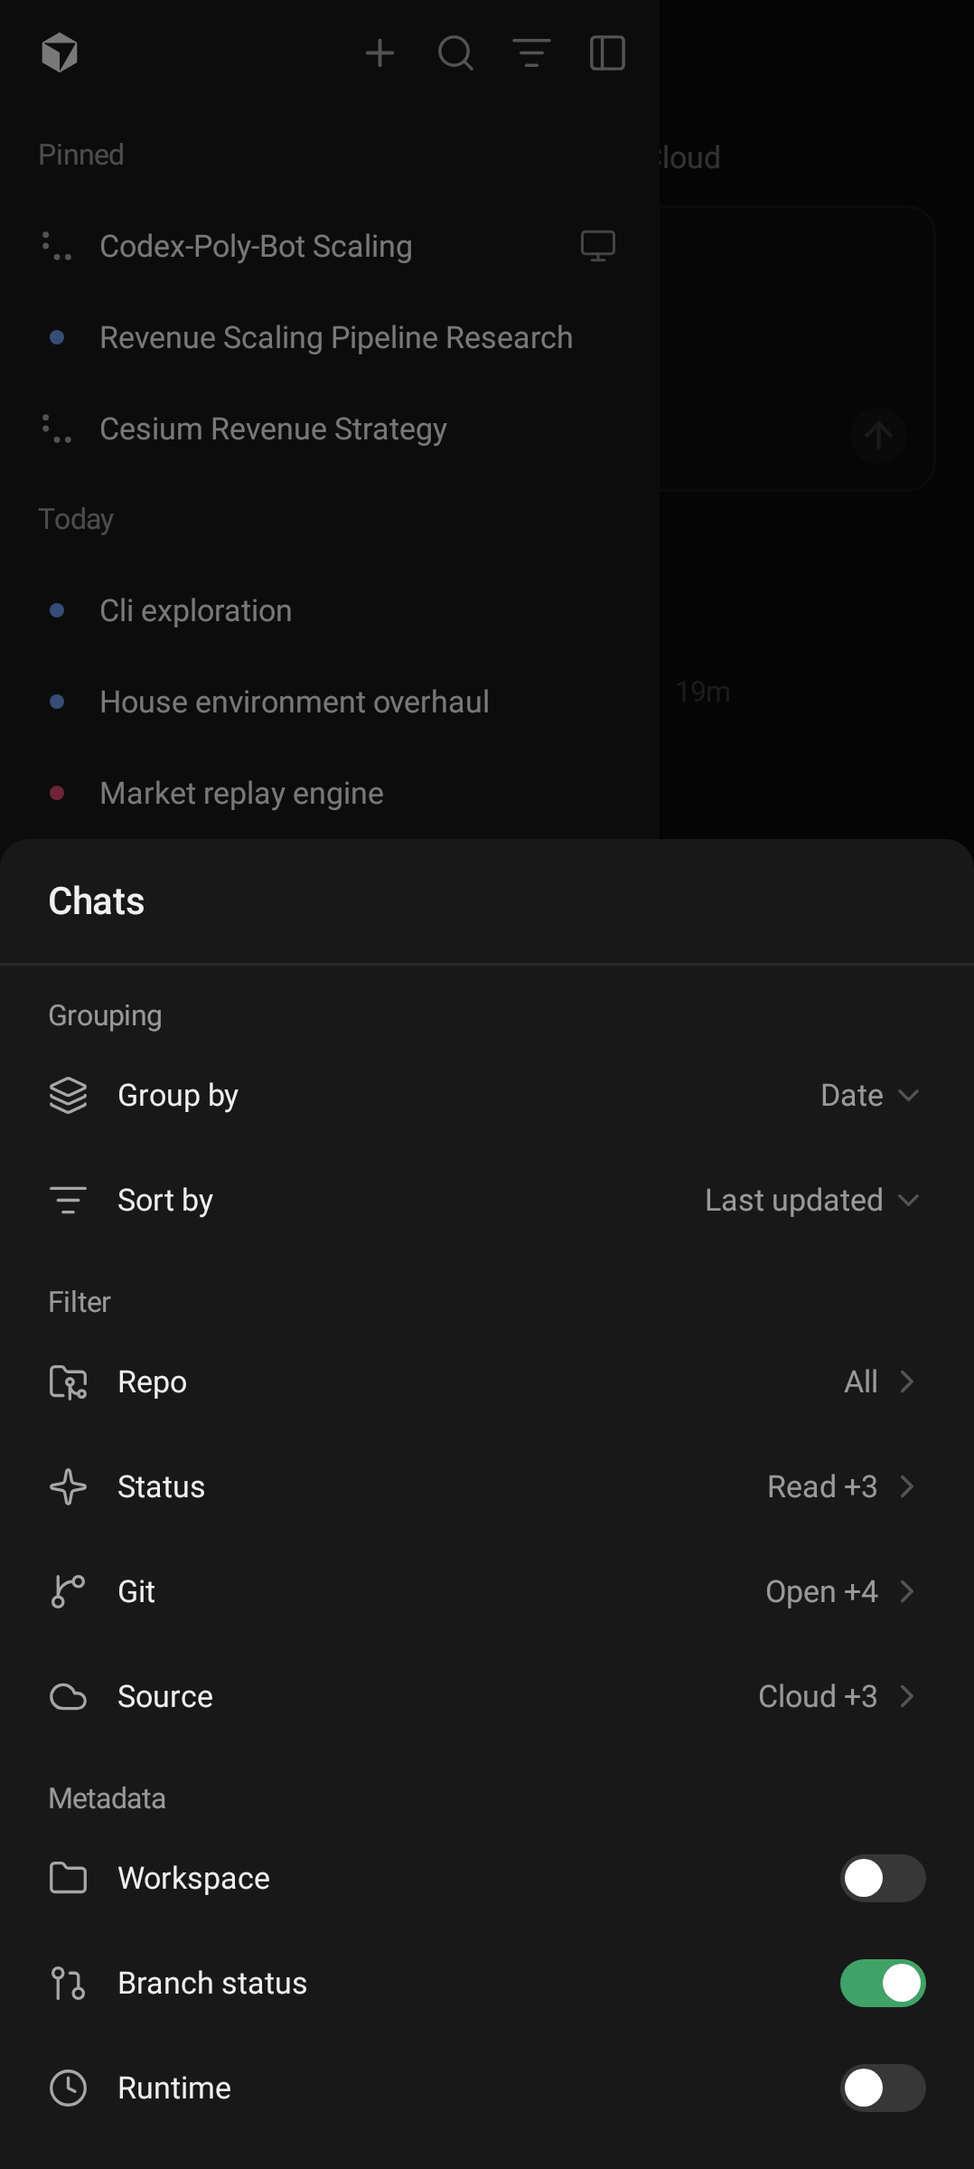
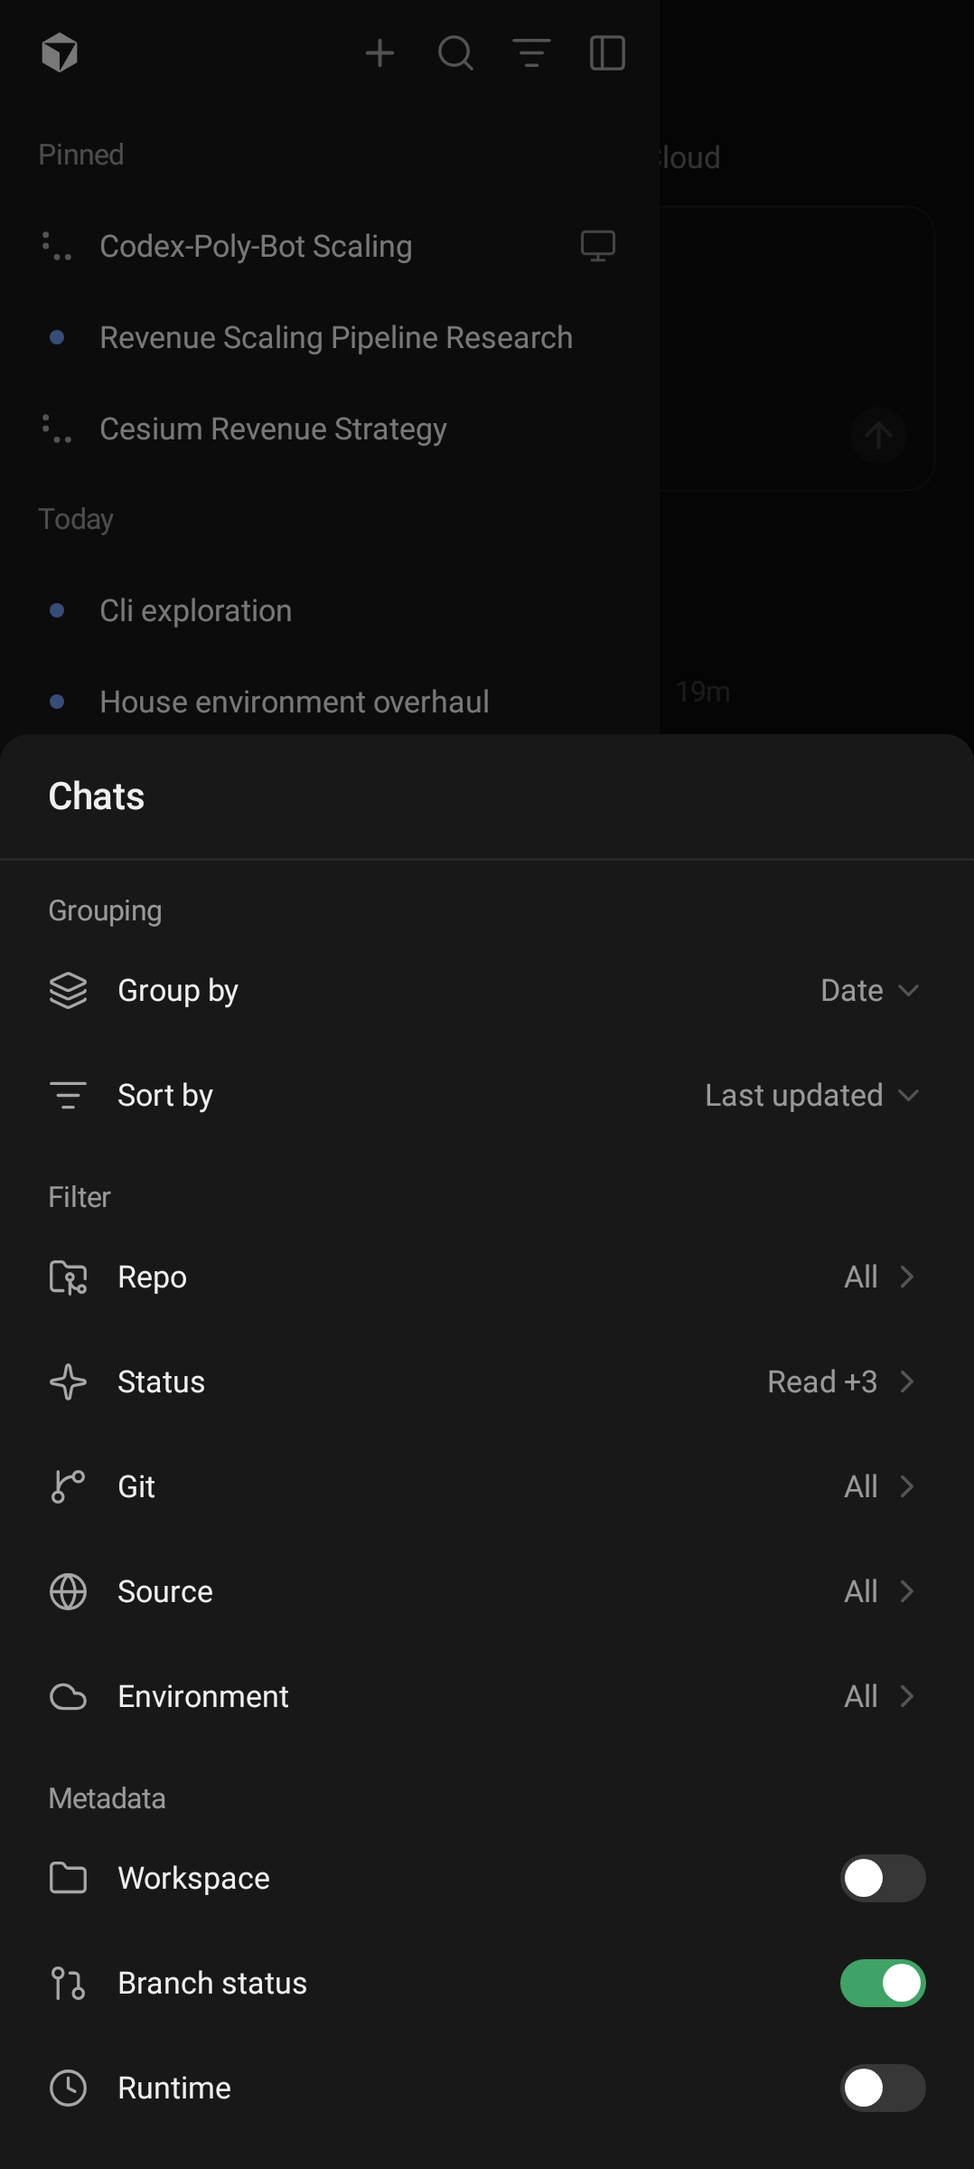
Screenshots and README for the Source and Environment filters

diff --git a/README.md b/README.md
@@ -9,14 +9,14 @@ Not affiliated with Anysphere, Inc.
 - Sign in with your Cursor account, the way Cursor's own CLI and SDK do: "Continue with Cursor" opens cursor.com in a Custom Tab with a PKCE challenge, the app polls `api2.cursor.sh/auth/poll` for the approval, then spends the released session once on `DashboardService/CreateUserApiKey` to mint a 90-day user API key named after the device (it shows up on cursor.com/dashboard/api like any other key, and can be revoked there). The app comes back on top of the browser as soon as the approval lands. Or paste a user / service-account API key under "Use an API key instead", for teams that restrict user keys. Either way the key is validated against `GET /v1/me`, stored encrypted with the Android Keystore and excluded from backups; the session tokens are never kept. Settings shows how you signed in and when a minted key lapses; a lapsed one signs out to a one-tap re-login. The sidebar footer and Settings show the account's actual profile picture (`GET /v1/me` has no field for it, so it comes from the account service's `DashboardService/GetMe` behind the key check, kept with the cached account and falling back to the initials).
 - New Chat pane as home: repository / branch / environment selectors, the composer (the "+" menu, model picker with plan mode and auto-PR, send), then the recent chats with preview cards. The branch picker offers the repository's default branch and every branch its agents have started from or pushed — the API has no branch listing, so that is what the app can know — and takes any other branch by name. The model picker lists each model from `GET /v1/models` once; a model's parameters — effort, speed, context window — unfold under it as pickers (a toggle for an on/off parameter, a row of choices otherwise), and every choice resolves to a variant the API lists, so the request never carries a `model.params` combination the model does not accept. Sending opens the chat at once: the prompt (with its images) is on screen and the chat reads "Starting…" before `POST /v1/agents` has answered, with the new row already in the list; the reply swaps in the run and starts its stream. The composer is empty from that moment: the launch belongs to the app, not to the pane that sent it, so going back — or starting another chat — while the server has yet to answer meets a New Chat pane that is ready, never one still occupied by the previous send. The prompt is kept on the device until the legacy transcript has caught up with it, so it never blinks out while `/v0/agents/{id}/conversation` lags behind the run list. A launch that fails, or is stopped from the chat, hands its draft back to the composer (with the reason, for a failure) — as soon as the composer is free, if another draft is being written by then; the app mints the agent id itself (`agentId`), so re-sending an unchanged draft adopts the agent a lost reply may already have created (`409 agent_id_conflict`) instead of launching a duplicate.
 - The composer's "+" menu, as on cursor.com/agents: Multitask (toggles `/multitask` at the front of the prompt), Files (image attachments via the system photo picker), Skills (the built-in cloud skills — `/autopilot`, `/review`, `/review-bugbot`, `/review-security`, `/split-to-prs`, `/subscribe`, `/loop`, … — plus any project or synced skill typed by name, inserted as `/name`), and MCP Servers (HTTP or stdio servers defined in the app, stored encrypted, toggled per server and sent inline as `mcpServers[]` with every prompt while enabled). The same menu sits on the follow-up composer.
-- Sidebar (edge-swipe drawer on phones, permanent 280dp column on tablets and foldables): one header row with the "+" new-chat button, search, the filter menu (group by, sort, Repo / Status / Git / Source filters — the Git filter shows or hides chats by where their pull request stands, open, draft, merged or closed, or that have none — and metadata toggles) and the sidebar toggle, then the Pinned and date groups; pull-to-refresh, long-press actions (pin, open on cursor.com, copy link, archive, delete).
+- Sidebar (edge-swipe drawer on phones, permanent 280dp column on tablets and foldables): one header row with the "+" new-chat button, search, the filter menu (group by, sort, Repo / Status / Git / Source / Environment filters — the Git filter shows or hides chats by where their pull request stands, open, draft, merged or closed, or that have none; the Source filter is the one cursor.com/agents and the desktop Agents window have, where each chat was started: Cursor desktop, Cursor web, the mobile app, the CLI, Slack, Microsoft Teams, Linear, Jira, source control (GitHub / GitLab / Bitbucket / Origin comments), the API, the SDK, Automations, Bugbot, Grok Bot, plus "This device" for the chats launched from this app and "Other" for Cursor's internals; the Environment filter is where each chat runs, Cursor's cloud, a team pool or one of your machines — and metadata toggles) and the sidebar toggle, then the Pinned and date groups; pull-to-refresh, long-press actions (pin, open on cursor.com, copy link, archive, delete).
 - Pinned chats are the account's, shared with the desktop Agents window and the iOS app: the pin list is read from `aiserver.v1.BackgroundComposerService/ListBackgroundComposers` (`includePinnedState` → `pinnedBcIds`) after every list refresh and changed with `Pin` / `UnpinBackgroundComposers`, over the same Connect-JSON channel the sign-in uses. Those RPCs take the account session rather than the API key, so the stored key is exchanged for one on demand (`POST api2.cursor.sh/auth/exchange_user_api_key`, the Cursor CLI's `--api-key` login) and the session is kept in memory only. A pin toggled here shows at once and reaches the server now or at the next sync (pending changes survive restarts and win over the server's answer until acknowledged); the first sync of an account pushes the pins made on this device before syncing existed; pinned agents past the list window are fetched by id and kept through later listings. Settings › Chats turns the sync off to keep pins on the device, and shows why it is not going through when it isn't (a device policy, a key the account service refuses).
 - Conversation view: transcript (`/v0/agents/{id}/conversation`), run footers ("Worked 3m 5s" + the pushed branch as a pill), a pull-request button in the header beside the menu once the agent has opened one (the chat's only link to its PR, so a long transcript never scrolls it out of reach), live SSE streaming of the active run, subagent cards and markdown rendering; follow-ups with image attachments (`prompt.images`), stop, and press-and-hold on any prompt or reply to copy it. The turns Cursor starts on its own — a goal carrying over to the next turn, a background subagent reporting back — reach the transcript as `user_message`s made of the `<system_notification>` markup written for the model, not as anything the user said; they render as one row in the trace's own voice ("Goal continued · In the Verity photoreal engine…", "Subagent completed · Contacts, clipping and pose naturalness", red for a failed one) that opens onto the objective or the subagent's report, and press-and-hold still copies the notification as injected. A stream that drops — a network change, the agent's machine waking up after a follow-up (`stream_unavailable`), a server-side `upstream_error` — is a connection problem, not the run's: the trace stays put, the working row says "Reconnecting…", and the stream is resumed with `Last-Event-ID` and backoff for as long as the run record says the run is going; a run whose stream is gone for good is settled from the record instead. Everything the agent does between two replies — its reasoning and tool calls, in the order they happened — sits behind one "Explored N files, M searches · thought for Ns" row ("Exploring …" with a spinner while it is still going) that expands to the interleaved trace: each thought as prose, each run of tool calls as a card. Finished runs replay their retained event stream, so the same thinking / tool / subagent trace is there to dig into after the fact; a trace seen whole — followed live to its `result` (on screen or by the live notification) or replayed — is kept on disk from then on, and a run that ends while the screen is away, or whose stream broke, is replayed from its first event rather than left as the fragment the screen had. Runs whose log expired (`410 stream_expired`) before it was ever seen keep the text-only transcript.
 - Switching model mid-chat, as on cursor.com/agents: the follow-up composer's model chip opens the same picker as New Chat and sends the pick as the run's `model` (the SDK's `agent.send({ model })`; the override is sticky, so later follow-ups keep it), with plan mode per run through `mode`. The API never reports an agent's model, so the chip names what this device launched or last switched the chat to and reads "Model" for chats started elsewhere; the picker shows the chat's model checked when the catalog lists it, and a "Current model" row otherwise.
 - Media in replies: the `<img>`, `<video>` and `![alt](src)` an agent writes for its screenshots and recordings render inline. `/opt/cursor/artifacts/…` paths are exchanged for presigned URLs through `GET /v1/agents/{id}/artifacts/download` (cached and refreshed before their 15-minute expiry); images are laid out at one source pixel per dp within the message width and open in a zoomable full-screen viewer, videos show a poster frame and play inline with ExoPlayer.
 - Live notifications, the Android counterpart of the iOS app's Live Activities: while agents run, an ongoing notification shows the status, title, current step and a Stop action for one agent, or the total count with one condensed line per agent (live detail for up to eight, then "+N more") for several; when an agent finishes, a card with "Finished", `+80 −230 · 3 Files` (or the duration when no tool reported line counts), the final reply, Review and View PR. On Android 16 it is a promoted Live Update (status-bar chip, lock screen). Backed by a `dataSync` foreground service that only runs while something is running; toggle in Settings › Notifications. The service is supervised rather than fired and forgotten: whether it is up is part of the decision to start it, so a start the platform refused is asked for again with backoff, and a service the platform took down while agents kept running — Android 15 ends a `dataSync` service six hours after the app was last in front, and a process can be killed at any time — is brought back whenever the app is in front. While it is gone and the app is not around to restart it, a persisted `JobScheduler` watchdog (armed for as long as the service is up, so it survives a reboot) reads the run records of the agents that were running and posts their "Finished" cards, and keeps checking until none is left; the live notification itself comes back the next time the app is opened.
 - Instant start: the agent list, the transcripts you opened (plus the most recent ones, prefetched in the background), the traces of finished runs and the model / repository catalogs are kept on disk (`cacheDir`, wiped on sign-out), so the app renders the last known state immediately and revalidates behind it — an open chat also revalidates when the app returns to the foreground, and the list keeps itself current while it is on screen (the newest page every 30 s, the whole list every few minutes). Refreshes publish each `/v1/agents` page as it arrives and treat the legacy `/v0/agents` enrichment as best effort, a failed or offline refresh never empties what is on screen, and transient errors (`429`, `5xx`, dropped connections) are retried with backoff for idempotent requests. Whether a chat is running is decided by its latest run, never by the v1 `status`: that field is a lifecycle that reads `ACTIVE` for finished agents too, so the legacy list's status fills it in and the runs still in question after a refresh — a turn that just started or ended, a row that claims to be running — are settled against their records. A row's activity time is the server's `updatedAt`; a stamp made on the device (a follow-up sent, a finish watched) only stands until the server confirms it.
-- Home-screen widget ("Chats"): the sidebar's rows on the home screen — the same 36dp rows on the same `#181818` surface, the working dot grid (held on one frame, since widgets cannot animate), the blue unread and red error dots, the pull-request glyph in its GitHub state's colour or the neutral branch glyph of a read chat that pushed, the machine glyph and the workspace / age metadata the Chats filter menu toggles. Each widget lists one of three things, picked when it is placed and switchable from its title: recent chats (the New Chat pane's list, newest first), running agents (whatever the Status filter says), or the sidebar's Pinned group; the Repo / Git / Source filters apply as in the sidebar. A row opens its chat, the cube opens the app, "+" opens the New Chat pane. Rendered with Glance from the same repository, filters and pins the app uses — from the disk cache first, revalidated behind it — and re-rendered whenever any of that changes while the app is alive (a run finishing, a pin, a filter, a theme change, a sign-out); "Match system" follows the system theme even while the app is not running. The widget picker shows a live preview on Android 15, the layout preview on Android 12+, and a rendered image before that.
+- Home-screen widget ("Chats"): the sidebar's rows on the home screen — the same 36dp rows on the same `#181818` surface, the working dot grid (held on one frame, since widgets cannot animate), the blue unread and red error dots, the pull-request glyph in its GitHub state's colour or the neutral branch glyph of a read chat that pushed, the machine glyph and the workspace / age metadata the Chats filter menu toggles. Each widget lists one of three things, picked when it is placed and switchable from its title: recent chats (the New Chat pane's list, newest first), running agents (whatever the Status filter says), or the sidebar's Pinned group; the Repo / Git / Source / Environment filters apply as in the sidebar. A row opens its chat, the cube opens the app, "+" opens the New Chat pane. Rendered with Glance from the same repository, filters and pins the app uses — from the disk cache first, revalidated behind it — and re-rendered whenever any of that changes while the app is alive (a run finishing, a pin, a filter, a theme change, a sign-out); "Match system" follows the system theme even while the app is not running. The widget picker shows a live preview on Android 15, the layout preview on Android 12+, and a rendered image before that.
 - Settings with Cursor Dark / Cursor Light / system theme, the pinned-chats sync toggle and its status, and the live-notification toggle; demo mode with an in-memory backend so the UI can be explored without an account.
 - In-app updates from this repository's GitHub releases: the app checks the release list (a conditional request, so a repeat costs nothing), maps each `vX.Y.Z` tag to the build's versionCode scheme and offers the newest release above the installed one — release candidates too, when "Include pre-releases" is on. With "Automatic updates" (the default) a persisted `JobScheduler` job checks every 12 hours and the app checks again when it comes forward; the APK is downloaded over Wi-Fi, verified against the SHA-256 GitHub published for it and parsed to confirm it is this package, newer, and signed with the installed key, then installed while the app is off screen — without a prompt on Android 12+ once "Install unknown apps" is allowed (the installer is updating itself), through a notification and the system's confirmation otherwise. Settings › Updates has the manual path: check, download with progress, install, retry; the sidebar shows "Update available" above the account footer. See [In-app updates](#in-app-updates).
 - Predictive back (Android 14+): the screen being left shrinks into a rounded card that slides in the direction of the swipe (right for a left-edge gesture, left for a right-edge one) and trails the finger vertically, while the screen underneath comes forward from behind a scrim; the drawer and bottom sheets shrink with the gesture, the filter sheet's drill-in pages slide back under the finger, and from the New Chat pane the system's back-to-home animation plays. Cancelling a gesture rewinds from wherever it was; releasing commits from there, and a new gesture that starts mid-rewind takes over. Forward navigation plays the same transition backwards.
@@ -71,7 +71,7 @@ Debug builds (`com.cursorforandroid.debug`) check and download like release buil
 
 ### Screenshots
 
-`AppScreenshotTest` pins the clock (`AppClock`) to 2025-01-15 14:00 UTC, the zone and the locale, and disables ripples, so the PNGs render identically on every machine. After an intentional UI change, re-record with `./gradlew :app:recordRoborazziDebug` or the "Update screenshots" workflow and commit `screenshots/`. The demo backend serves its sample artifacts (`app/src/main/assets/demo/`) as `file:///android_asset/` URLs, so `11_conversation_media.png` exercises the real image pipeline without a network. `WidgetScreenshotTest` renders the home-screen widget the way a launcher does — the Glance composition to `RemoteViews`, applied under an `AppWidgetHostView` — for `14`–`18_widget_*.png`; `18_widget_preview.png` is also the widget picker's image for launchers before Android 12 (`app/src/main/res/drawable-nodpi/widget_chats_preview.png`), so copy it over when the widget changes.
+`AppScreenshotTest` pins the clock (`AppClock`) to 2025-01-15 14:00 UTC, the zone and the locale, and disables ripples, so the PNGs render identically on every machine. After an intentional UI change, re-record with `./gradlew :app:recordRoborazziDebug` or the "Update screenshots" workflow and commit `screenshots/`. The demo backend serves its sample artifacts (`app/src/main/assets/demo/`) as `file:///android_asset/` URLs, so `11_conversation_media.png` exercises the real image pipeline without a network; `24`–`26` are the Source and Environment filter pages and the sidebar with the Source filter narrowed to Slack, the CLI and Grok Bot (the demo seeds carry a source each). `WidgetScreenshotTest` renders the home-screen widget the way a launcher does — the Glance composition to `RemoteViews`, applied under an `AppWidgetHostView` — for `14`–`18_widget_*.png`; `18_widget_preview.png` is also the widget picker's image for launchers before Android 12 (`app/src/main/res/drawable-nodpi/widget_chats_preview.png`), so copy it over when the widget changes.
 
 ## API surface used
 
@@ -92,6 +92,7 @@ Debug builds (`com.cursorforandroid.debug`) check and download like release buil
 | Launch / follow up / cancel | `POST /v1/agents`, `POST /v1/agents/{id}/runs` (both with `prompt.images`, `model`, `mode` and inline `mcpServers`), `POST …/cancel` |
 | Lifecycle | `POST …/archive`, `POST …/unarchive`, `DELETE /v1/agents/{id}` |
 | Pickers | `GET /v1/models`, `GET /v1/repositories` |
+| Where each chat was started, for the Source filter | The Cursor account: the same read of `aiserver.v1.BackgroundComposerService/ListBackgroundComposers` carries each agent's `source`, an `aiserver.v1.BackgroundComposerSource` (`EDITOR`, `SLACK`, `WEBSITE`, `LINEAR`, `IOS_APP`, `API`, `GITHUB`, `CLI`, `GITLAB`, `BUGBOT_AUTOFIX`, `AUTOMATIONS`, `TEAMS`, `JIRA`, `SDK`, `BITBUCKET`, `ORIGIN`, `GROK_BOT`, … — 34 values, all mapped in `AgentSource`). The public API never reports it: `GET /v1/agents` has `env.type` (cloud / pool / machine — the Environment filter), not the launching client. The read asks for `includeHiddenSources: [SDK]`, since the account leaves SDK-started agents out of its list unless asked (the "Filter > Source > SDK" the SDK docs point to); a source, once read, is kept on the row across refreshes and on disk. Chats launched from this app reach the account as `API` like any other API client's and are told apart locally as "This device" |
 | Pull request state (open / draft / merged / closed) for the Git filter and the list's PR pills | The Cursor account first, the view the desktop and iOS apps show: every read of `aiserver.v1.BackgroundComposerService/ListBackgroundComposers` (made for the pins) carries each agent's `prUrl` and `prStatus` (`PR_STATUS_OPEN` / `DRAFT` / `MERGED` / `CLOSED`), and `…/GetPullRequestMergeStatus` `{prUrl}` answers for one — private repositories and non-GitHub SCMs included, no token. GitHub is the fallback for what the account does not answer: `GET api.github.com/repos/{owner}/{repo}/pulls/{number}`, anonymous for public repositories, with an optional GitHub token (Settings › GitHub, kept in the encrypted store) for private ones. States are cached on disk and re-read on a per-state schedule (open / draft every 10 minutes, closed a few times a day, merged never), and a spent GitHub rate limit pauses that fallback until GitHub's reset |
 
 ## Design tokens and geometry
